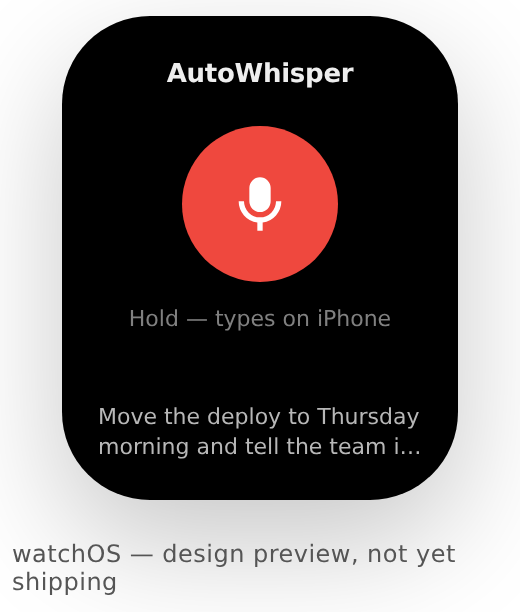
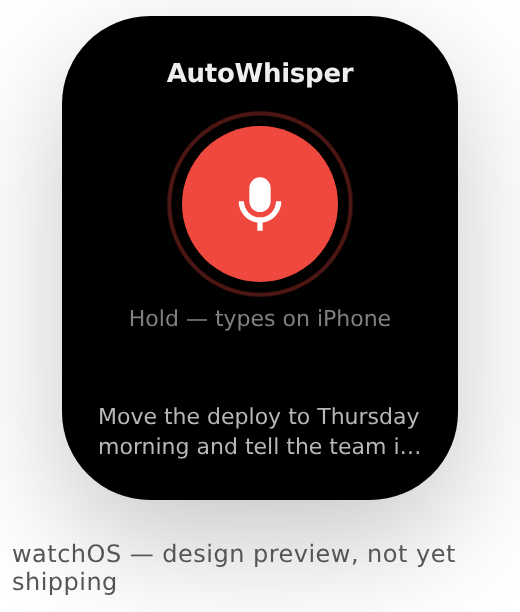
design: three motion loops with per-platform research
Research (design/research/2026-06-12-motion-platform-research.md): Apple
HIG motion + reduced-motion criteria, Material 3 Expressive spring physics
(spatial vs effects), watchOS glanceability, desktop micro-interaction
timing, and 2026 scroll-driven animation support. Distilled into motion
tokens: 120/180/320ms, ease-out default, spring bezier reserved for
Android spatial moves.

Loop 1 — foundation: settings UI animates state changes only (pane rise,
status arrival, press feedback); landing gets a staggered hero entrance
and CSS-only scroll reveals inside @supports; comps get a breathing
record affordance (2.8s, 3.6s watch) and live caret. Every surface gates
on prefers-reduced-motion.

Loop 2 — critique: full-page capture exposed an inactive-view-timeline
trap (fill:backwards froze below-fold sections at opacity 0 whenever the
page fits the scrollport). Dropped the backwards fill so reveals degrade
to visible content; re-captured clean.

Loop 3 — verify/record: stills confirmed readable without motion (the
always-on watch principle applied everywhere); motion-ios.gif demo added
to README; design-system.md gains a Motion section; audit doc records
all three rounds.

https://claude.ai/code/session_015ZQVqKMT7kNk1AcCjL145K

diff --git a/site/styles.css b/site/styles.css
@@ -130,3 +130,49 @@ figcaption { margin-top: 12px; }
   .facts { grid-template-columns: 1fr; gap: 30px; }
   .hero { padding: 64px 0 40px; }
 }
+
+/* Motion — research: design/research/2026-06-12-motion-platform-research.md.
+   One-time hero entrance; below-the-fold sections reveal on scroll entry
+   (scroll-driven animations: Chrome/Edge 115+, Safari 26; Firefox sees the
+   static page). Everything gated on prefers-reduced-motion. */
+@media (prefers-reduced-motion: no-preference) {
+  @keyframes rise-in {
+    from { opacity: 0; transform: translateY(18px); }
+    to { opacity: 1; transform: translateY(0); }
+  }
+  .hero h1,
+  .hero-copy,
+  .hero-actions,
+  .release-note {
+    animation: rise-in 600ms cubic-bezier(.16, 1, .3, 1) backwards;
+  }
+  .hero-copy { animation-delay: 90ms; }
+  .hero-actions { animation-delay: 170ms; }
+  .release-note { animation-delay: 240ms; }
+
+  .button, .button-quiet, .nav-links a {
+    transition: opacity 120ms ease-out, color 120ms ease-out, transform 120ms ease-out;
+  }
+  .button-primary:active { transform: scale(.98); }
+
+  @supports (animation-timeline: view()) {
+    /* No `backwards` fill here: if the view timeline is inactive (page fits
+       the scrollport — tall monitors, print, fullPage capture), a backwards
+       fill would freeze sections at opacity 0. Without it they simply
+       render visible and the reveal only plays when scrolling happens. */
+    .product picture img,
+    .facts > div,
+    .preview-row figure,
+    .install pre,
+    .privacy h2 {
+      animation: rise-in linear;
+      animation-timeline: view();
+      animation-range: entry 5% entry 45%;
+    }
+    .facts > div:nth-child(2) { animation-range: entry 10% entry 50%; }
+    .facts > div:nth-child(3) { animation-range: entry 15% entry 55%; }
+  }
+}
+@media (prefers-reduced-motion: reduce) {
+  *, *::before, *::after { animation: none !important; transition: none !important; }
+}

diff --git a/src/settings/web/style.css b/src/settings/web/style.css
@@ -31,7 +31,9 @@
   --aw-shadow-1: 0 1px 2px oklch(0 0 0 / 0.04), 0 8px 24px oklch(0 0 0 / 0.05);
   --aw-dur-1: 120ms;
   --aw-dur-2: 180ms;
+  --aw-dur-3: 320ms;
   --aw-ease-out: cubic-bezier(.16, 1, .3, 1);
+  --aw-ease-spring: cubic-bezier(.34, 1.3, .45, 1);
 }
 
 @media (prefers-color-scheme: dark) {
@@ -197,6 +199,7 @@ p { margin: 0; }
   transition: transform var(--aw-dur-1) var(--aw-ease-out), background var(--aw-dur-1) var(--aw-ease-out);
 }
 .aw-button:hover:not(:disabled) { transform: translateY(-1px); background: var(--aw-paper-2); }
+.aw-button:active:not(:disabled) { transform: scale(.98); }
 .aw-button-primary { background: var(--aw-ink-0); color: var(--aw-paper-0); border-color: var(--aw-ink-0); }
 .aw-button-primary:hover:not(:disabled) { background: var(--aw-ink-1); }
 .aw-pill {
@@ -223,13 +226,17 @@ p { margin: 0; }
 }
 .aw-status.ok,
 .aw-status.err,
-.aw-status.warn { padding: 10px 0; }
+.aw-status.warn { padding: 10px 0; animation: aw-rise-in var(--aw-dur-2) var(--aw-ease-out); }
 .aw-status.ok { color: var(--aw-ink-3); }
 .aw-status.err { background: var(--aw-err-soft); color: var(--aw-err); }
 .aw-status.warn { background: var(--aw-warn-soft); color: var(--aw-warn); }
 .aw-form { padding: 0 32px 72px; }
 .aw-pane { display: none; max-width: 760px; }
-.aw-pane.is-active { display: block; }
+.aw-pane.is-active { display: block; animation: aw-rise-in var(--aw-dur-2) var(--aw-ease-out); }
+@keyframes aw-rise-in {
+  from { opacity: 0; transform: translateY(5px); }
+  to { opacity: 1; transform: translateY(0); }
+}
 .aw-pane-head {
   position: absolute;
   width: 1px;

diff --git a/design/mobile/ios.html b/design/mobile/ios.html
@@ -32,8 +32,20 @@
   .actions { display: flex; gap: 22px; font-size: 14px; font-weight: 550; color: var(--ink-2); }
   .bottom { display: flex; flex-direction: column; align-items: center; gap: 12px; padding-top: 22px;
             border-top: 1px solid var(--hair); }
+  /* Motion: status-only cues per platform research (breathing record
+     affordance + live caret). Stills must read perfectly without it. */
   .mic { width: 74px; height: 74px; border-radius: 50%; background: oklch(0.585 0.215 28);
-         display: grid; place-items: center; }
+         display: grid; place-items: center; position: relative; }
+  .mic::after { content: ""; position: absolute; inset: -7px; border-radius: 50%;
+               border: 2px solid oklch(0.585 0.215 28 / .35);
+               animation: breathe 2.8s ease-in-out infinite; }
+  @keyframes breathe { 0%, 100% { transform: scale(1); opacity: .9; }
+                       50% { transform: scale(1.12); opacity: .25; } }
+  .t p i { animation: caret 1.1s steps(1) infinite; }
+  @keyframes caret { 50% { opacity: 0; } }
+  @media (prefers-reduced-motion: reduce) {
+    *, *::before, *::after { animation: none !important; }
+  }
   .dark .mic { background: oklch(0.640 0.205 28); }
   .mic svg { width: 30px; height: 30px; fill: white; }
   .hint { font-size: 12px; color: var(--ink-3); }

diff --git a/design/mobile/watchos.html b/design/mobile/watchos.html
@@ -18,8 +18,18 @@
             padding: 22px 18px 18px; gap: 12px;
             box-shadow: 0 22px 60px oklch(0 0 0 / .22); }
   .app { font-size: 13px; font-weight: 650; color: oklch(0.95 0 0); letter-spacing: -.01em; }
+  /* Motion: status-only cues per platform research (breathing record
+     affordance + live caret). Stills must read perfectly without it. */
   .mic { width: 78px; height: 78px; border-radius: 50%; flex-shrink: 0; margin-top: 6px;
-         background: oklch(0.640 0.205 28); display: grid; place-items: center; }
+         background: oklch(0.640 0.205 28); display: grid; place-items: center; position: relative; }
+  .mic::after { content: ""; position: absolute; inset: -7px; border-radius: 50%;
+               border: 2px solid oklch(0.640 0.205 28 / .4);
+               animation: breathe 3.6s ease-in-out infinite; }
+  @keyframes breathe { 0%, 100% { transform: scale(1); opacity: .85; }
+                       50% { transform: scale(1.1); opacity: .2; } }
+  @media (prefers-reduced-motion: reduce) {
+    *, *::before, *::after { animation: none !important; }
+  }
   .mic svg { width: 32px; height: 32px; fill: white; }
   .hint { font-size: 11px; color: oklch(0.60 0 0); }
   .note { margin-top: auto; width: 100%; font-size: 11px; line-height: 1.35;

diff --git a/design/mobile/android.html b/design/mobile/android.html
@@ -33,8 +33,18 @@
   .ime { font-size: 12px; color: var(--ink-3); padding: 12px 0; border-top: 1px solid var(--hair); }
   .bottom { display: flex; flex-direction: column; align-items: center; gap: 12px; padding-top: 18px;
             border-top: 1px solid var(--hair); }
+  /* Motion: status-only cues per platform research (breathing record
+     affordance + live caret). Stills must read perfectly without it. */
   .mic { width: 74px; height: 74px; border-radius: 50%; background: oklch(0.585 0.215 28);
-         display: grid; place-items: center; }
+         display: grid; place-items: center; position: relative; }
+  .mic::after { content: ""; position: absolute; inset: -7px; border-radius: 50%;
+               border: 2px solid oklch(0.585 0.215 28 / .35);
+               animation: breathe 2.8s ease-in-out infinite; }
+  @keyframes breathe { 0%, 100% { transform: scale(1); opacity: .9; }
+                       50% { transform: scale(1.12); opacity: .25; } }
+  @media (prefers-reduced-motion: reduce) {
+    *, *::before, *::after { animation: none !important; }
+  }
   .dark .mic { background: oklch(0.640 0.205 28); }
   .mic svg { width: 30px; height: 30px; fill: white; }
   .hint { font-size: 12px; color: var(--ink-3); }

diff --git a/design/research/2026-06-12-motion-platform-research.md b/design/research/2026-06-12-motion-platform-research.md
@@ -1,0 +1,83 @@
+# Motion & platform design research (2026-06-12)
+
+Per-system conventions gathered before adding animation to any AutoWhisper
+surface. Sources fetched June 2026.
+
+## Shared motion principles (all systems)
+
+- User-initiated interactions get **ease-out** (fast start = perceived
+  responsiveness, gentle settle). [web.dev easing guide,
+  animations.dev easing blueprint]
+- Micro-interactions live in **120–200 ms**; entrances up to ~350 ms;
+  anything longer must be earning attention. [2026 micro-interaction
+  surveys: bricxlabs, primotech]
+- **`prefers-reduced-motion` is non-negotiable** and supported by every
+  major browser; reduced means minimize or eliminate, not just shorten.
+  [MDN, W3C WCAG C39]
+- 2026 expectation: **one harmonized motion system across desktop, mobile,
+  and watch** — same easing family and rhythm, platform-tuned amplitude.
+
+## Desktop settings UI (Linux/macOS/Windows web surface)
+
+- A settings app is an instrument, not a stage: animate **state changes**
+  (pane switch, status arrival), never idle chrome.
+- Hover/press: 120 ms; pane transitions: ~180 ms fade + small rise.
+- Apple HIG: "avoid adding motion to interactions that occur frequently";
+  the system already animates standard controls. Applies directly — no
+  per-field animation.
+
+## Landing page (web)
+
+- **CSS scroll-driven animations** (`animation-timeline: view()`) are
+  effectively universal in 2026: Chrome/Edge 115+, Safari 26, Opera 101+;
+  Firefox partial behind a flag → ship inside `@supports` as progressive
+  enhancement so Firefox simply sees the static page. [caniuse, MDN,
+  Chrome dev blog]
+- Pattern: one-time hero entrance on load; below-the-fold sections reveal
+  on scroll entry (fade + ≤24 px rise, finish by 50–60% of entry). No
+  parallax, no pinned scenes — those are the new slop.
+- Everything wrapped in `@media (prefers-reduced-motion: no-preference)`.
+
+## iOS (Apple HIG — Motion)
+
+- "Prefer quick, precise animations"; brevity conveys information better
+  than spectacle. Springs are the system feel (iOS 26 fluid morphs), but
+  subtle: feedback, status, continuity — not decoration.
+- Reduced Motion is an App Store accessibility evaluation criterion:
+  parallax/depth/multi-axis effects must disable.
+- For the AutoWhisper comp: a breathing record affordance (status: ready)
+  and a blinking caret (status: live transcript) are the only two moving
+  elements. Both are status, neither is decoration.
+
+## Android (Material 3 Expressive — Motion physics)
+
+- M3 replaced duration/easing tokens with a **physics/spring system**:
+  spatial springs (position/size — may overshoot) vs **effects springs
+  (color/opacity — must not overshoot)**.
+- Two schemes: *expressive* (low damping, visible bounce; hero moments)
+  and *standard*. 21 Compose components ship on the physics system.
+- CSS approximation for comps and the future web surface: spatial moves
+  may use a slight-overshoot bezier (`cubic-bezier(.34, 1.3, .45, 1)`);
+  opacity/color stay on plain ease-out. Encoded as `--aw-ease-spring`.
+
+## watchOS (Apple HIG — Designing for watchOS)
+
+- Glanceable: interactions last seconds; crucial information must be
+  visible immediately, stationary or in motion.
+- Motion budget is the smallest of any platform: one slow breathing cue on
+  the single primary control, nothing else. Always-on display implies the
+  idle state must also read perfectly as a still.
+
+## Resulting motion tokens (added to the design system)
+
+| Token | Value | Use |
+|---|---|---|
+| `--aw-dur-1` | 120 ms | hover, press |
+| `--aw-dur-2` | 180 ms | pane/status state changes |
+| `--aw-dur-3` | 320 ms | entrances, reveals |
+| `--aw-ease-out` | `cubic-bezier(.16, 1, .3, 1)` | default, all systems |
+| `--aw-ease-spring` | `cubic-bezier(.34, 1.3, .45, 1)` | Android spatial only |
+| breathing cue | 2.8 s ease-in-out loop | record affordance, mobile/watch |
+
+Reduced motion: every surface carries a `prefers-reduced-motion: reduce`
+block that disables transitions and animations wholesale.

diff --git a/design/2026-06-12-uiux-audit.md b/design/2026-06-12-uiux-audit.md
@@ -115,3 +115,25 @@ all removed:
 
 Static tests now also pin the dark-mode hero swap and the expanded asset
 set. All captures regenerated.
+
+
+## Round 3 — motion loops (same day)
+
+Three research→apply→capture→critique loops added subtle animation,
+grounded in per-platform research (`design/research/`):
+
+- **Loop 1 (foundation):** settings UI gained pane-switch rise (180ms),
+  status arrival, and press feedback — state changes only. Landing gained a
+  staggered hero entrance and CSS-only scroll reveals. Comps gained a
+  breathing record affordance (2.8s; 3.6s on watch) and a live caret.
+  All gated behind `prefers-reduced-motion`.
+- **Loop 2 (critique):** full-page capture exposed a real spec trap — with
+  `fill: backwards`, an inactive `view()` timeline (page fits the
+  scrollport: tall monitors, print, capture) freezes sections at opacity 0.
+  Entire below-fold content vanished. Fixed by dropping the backwards fill
+  on scroll-driven reveals so they degrade to visible; re-captured clean.
+- **Loop 3 (verify + record):** stills re-checked (idle states read
+  perfectly without motion — the watch always-on principle applied
+  everywhere); motion demos recorded (`motion-ios.gif` in
+  site/assets/screenshots, landing/settings walkthroughs delivered as
+  session artifacts).

diff --git a/design/design-system.md b/design/design-system.md
@@ -93,6 +93,25 @@ Still needed:
 - local-first proof panel backed by actual diagnostics
 - benchmark and latency readout components
 
+## Motion
+
+Researched per platform in `design/research/2026-06-12-motion-platform-research.md`.
+
+- Tokens: `--aw-dur-1` 120ms (hover/press), `--aw-dur-2` 180ms (state
+  changes), `--aw-dur-3` 320ms (entrances); `--aw-ease-out` default,
+  `--aw-ease-spring` reserved for Android spatial moves (M3 physics).
+- Settings UI animates state changes only (pane switch, status arrival,
+  press feedback) — never idle chrome, per Apple HIG "avoid motion on
+  frequent interactions".
+- Landing: one-time hero entrance + scroll-driven reveals via
+  `animation-timeline: view()` inside `@supports`. Scroll reveals must not
+  use `backwards` fill: an inactive view timeline (page fits the viewport)
+  would freeze content invisible.
+- Mobile/watch comps: a breathing record affordance and a live caret —
+  status cues, not decoration. Watch gets the slowest loop (3.6s).
+- Every surface ships a `prefers-reduced-motion: reduce` block that
+  disables all animation; stills must read perfectly without motion.
+
 ## Accessibility requirements
 
 - All controls must be keyboard reachable.

diff --git a/README.md b/README.md
@@ -28,6 +28,10 @@ rule: speech is processed on your devices.
 |---|---|---|
 | ![iOS design preview, light and dark](site/assets/screenshots/concept-ios.png) | ![Android design preview, light and dark](site/assets/screenshots/concept-android.png) | ![watchOS design preview](site/assets/screenshots/concept-watchos.png) |
 
+Motion is status-only — a breathing record affordance and a live caret
+([demo](site/assets/screenshots/motion-ios.gif)), disabled under
+`prefers-reduced-motion`.
+
 ## Install
 
 ```bash
